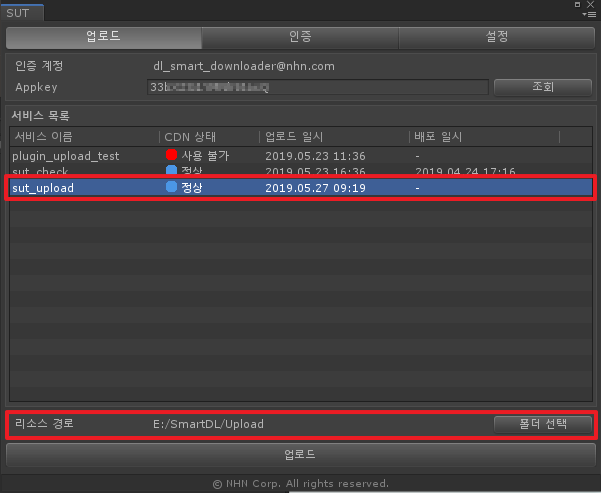
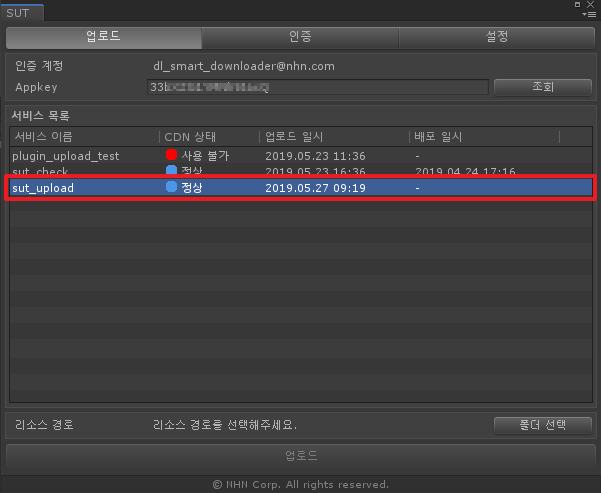
Modify feedback

Changed region(s): [[0.0, 0.8215, 1.0, 0.9432], [0.4193, 0.9736, 1.0, 1.0]]

diff --git a/site/05.rst b/site/05.rst
@@ -25,6 +25,9 @@ Appkey 확인
 서비스 선택 및 경로 선택
 =======================================
 
-서비스 목록이 조회되면 업로드할 서비스를 클릭하고 **리소스 경로**\ 를 선택합니다.
+1. 서비스 목록이 조회되면 업로드할 서비스를 선택합니다.
+2. 서비스가 선택되면 **폴더 선택** 버튼이 활성화 되고 **리소스 경로**\ 를 선택합니다.
+3. **업로드** 버튼을 선택합니다.
 
     .. image:: _static/image/sut_upload_step_1.png
+
